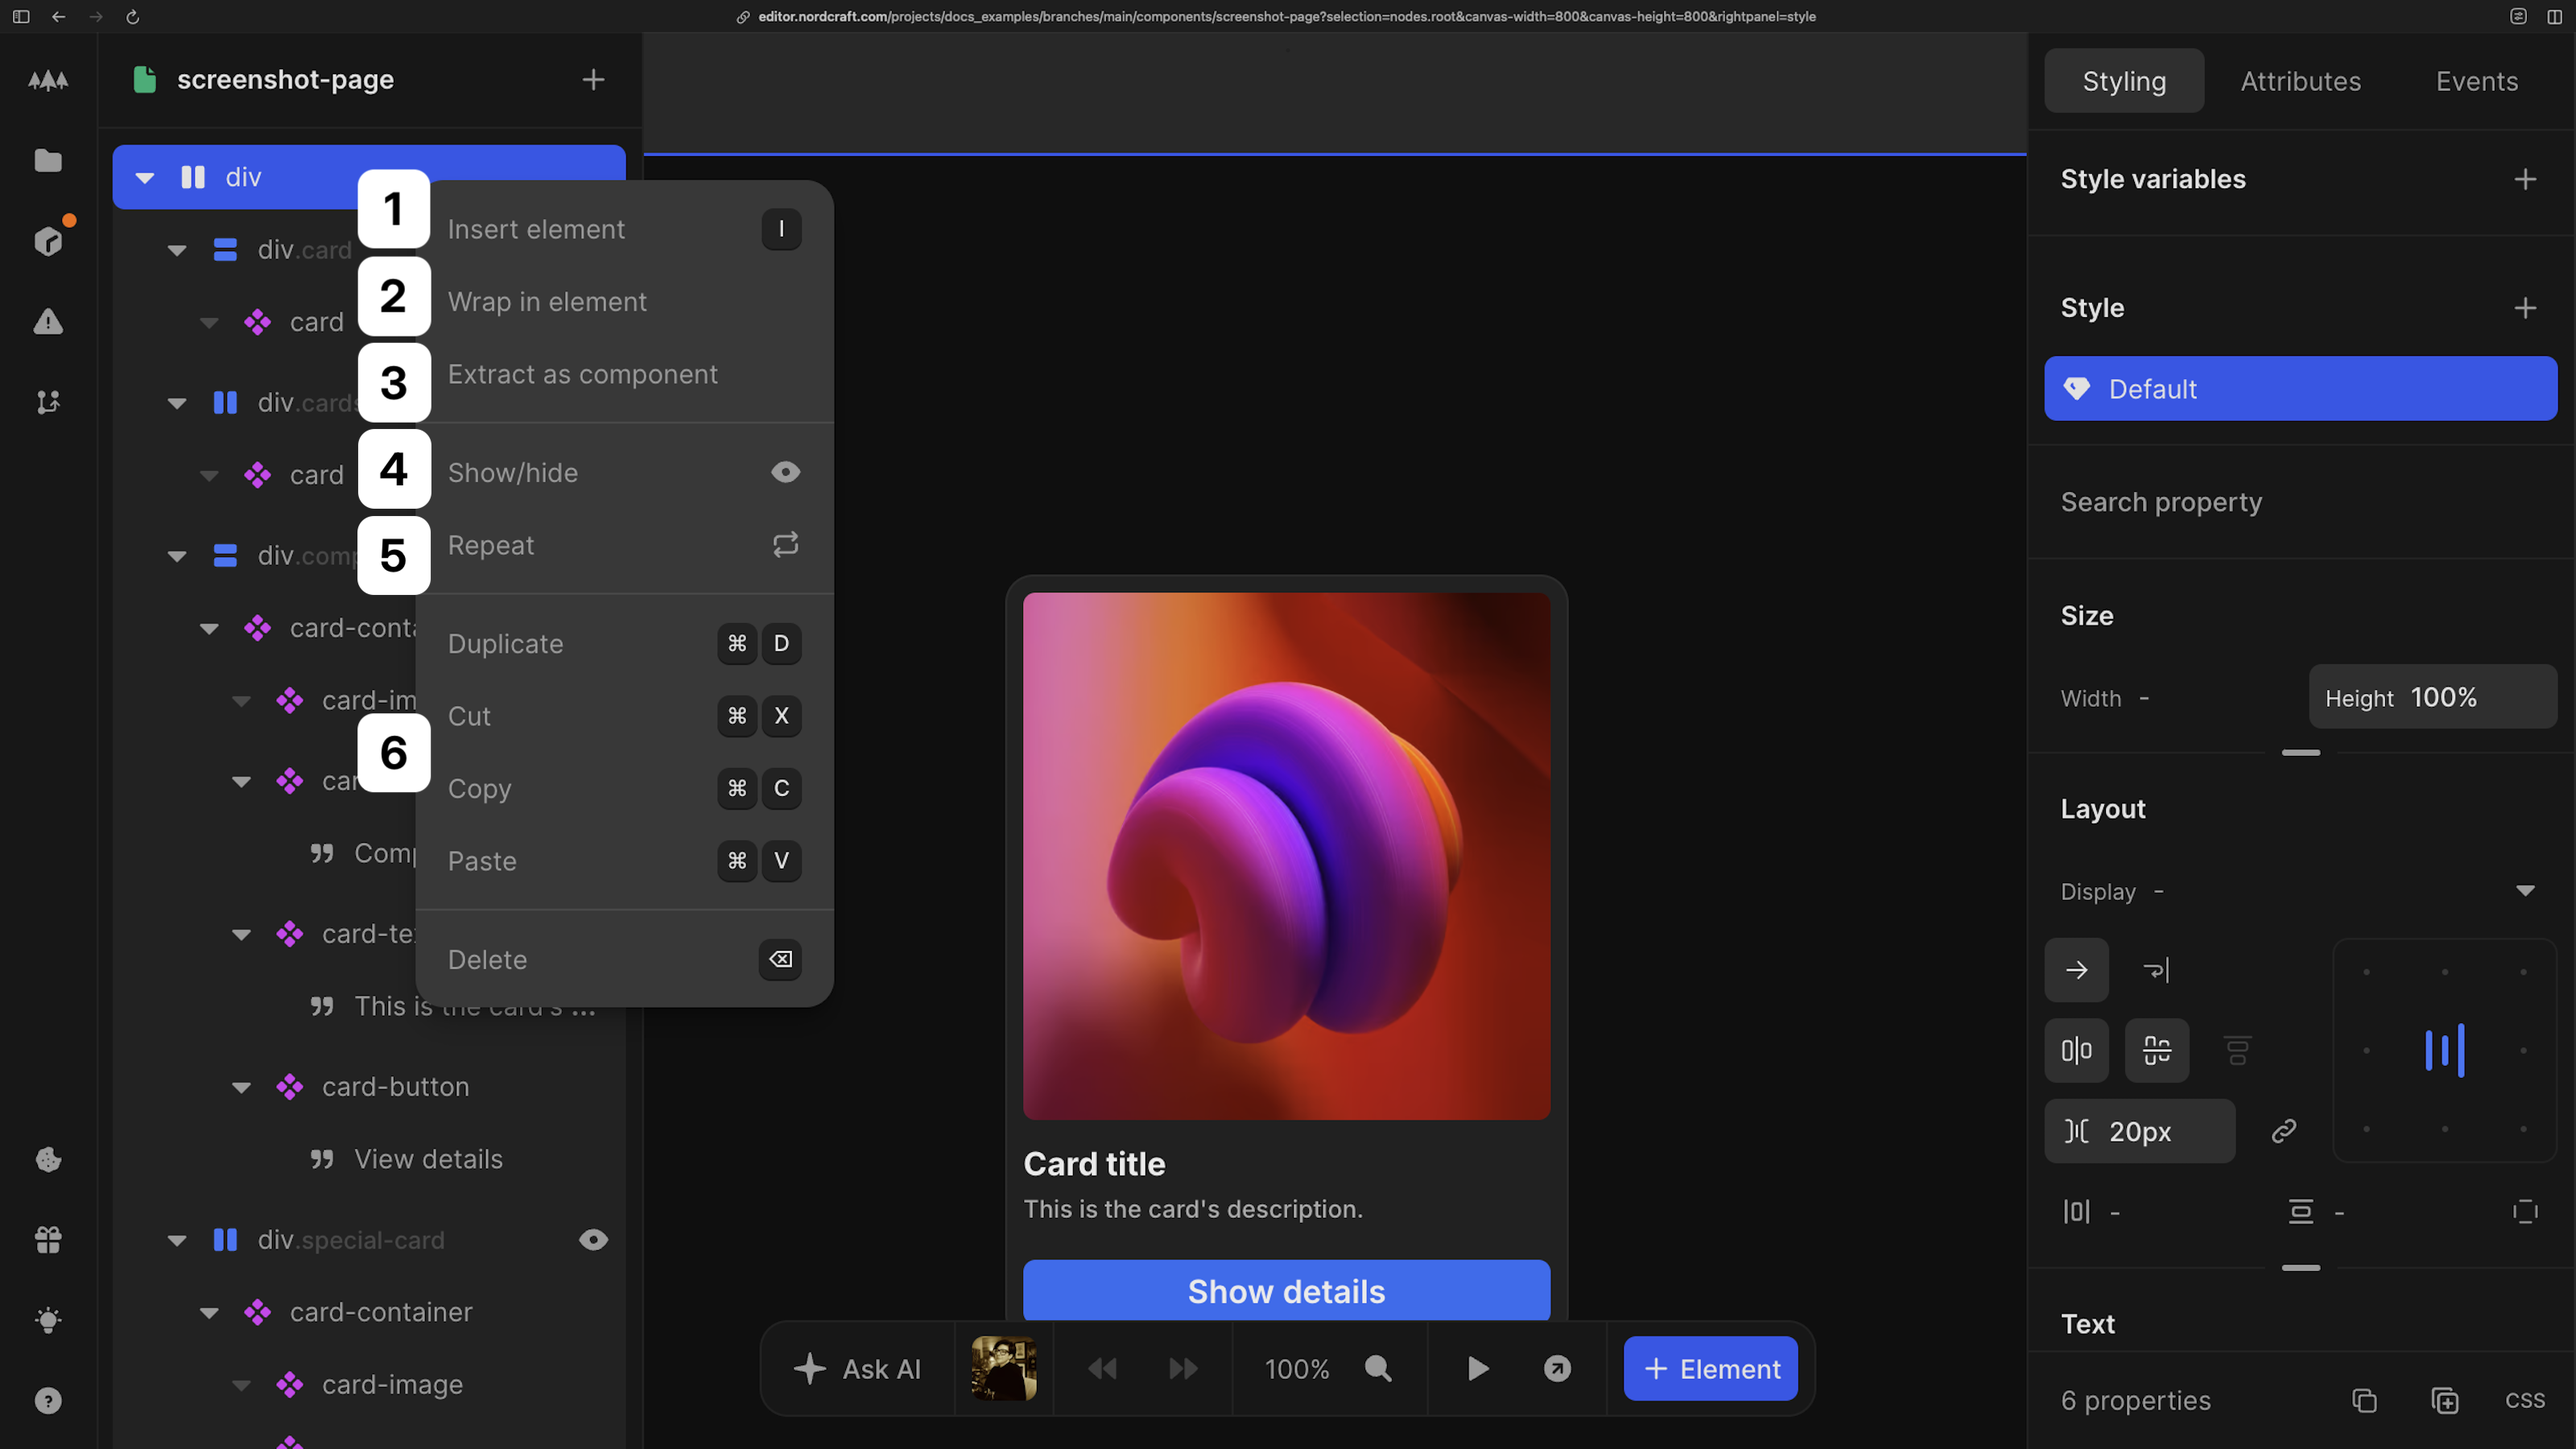
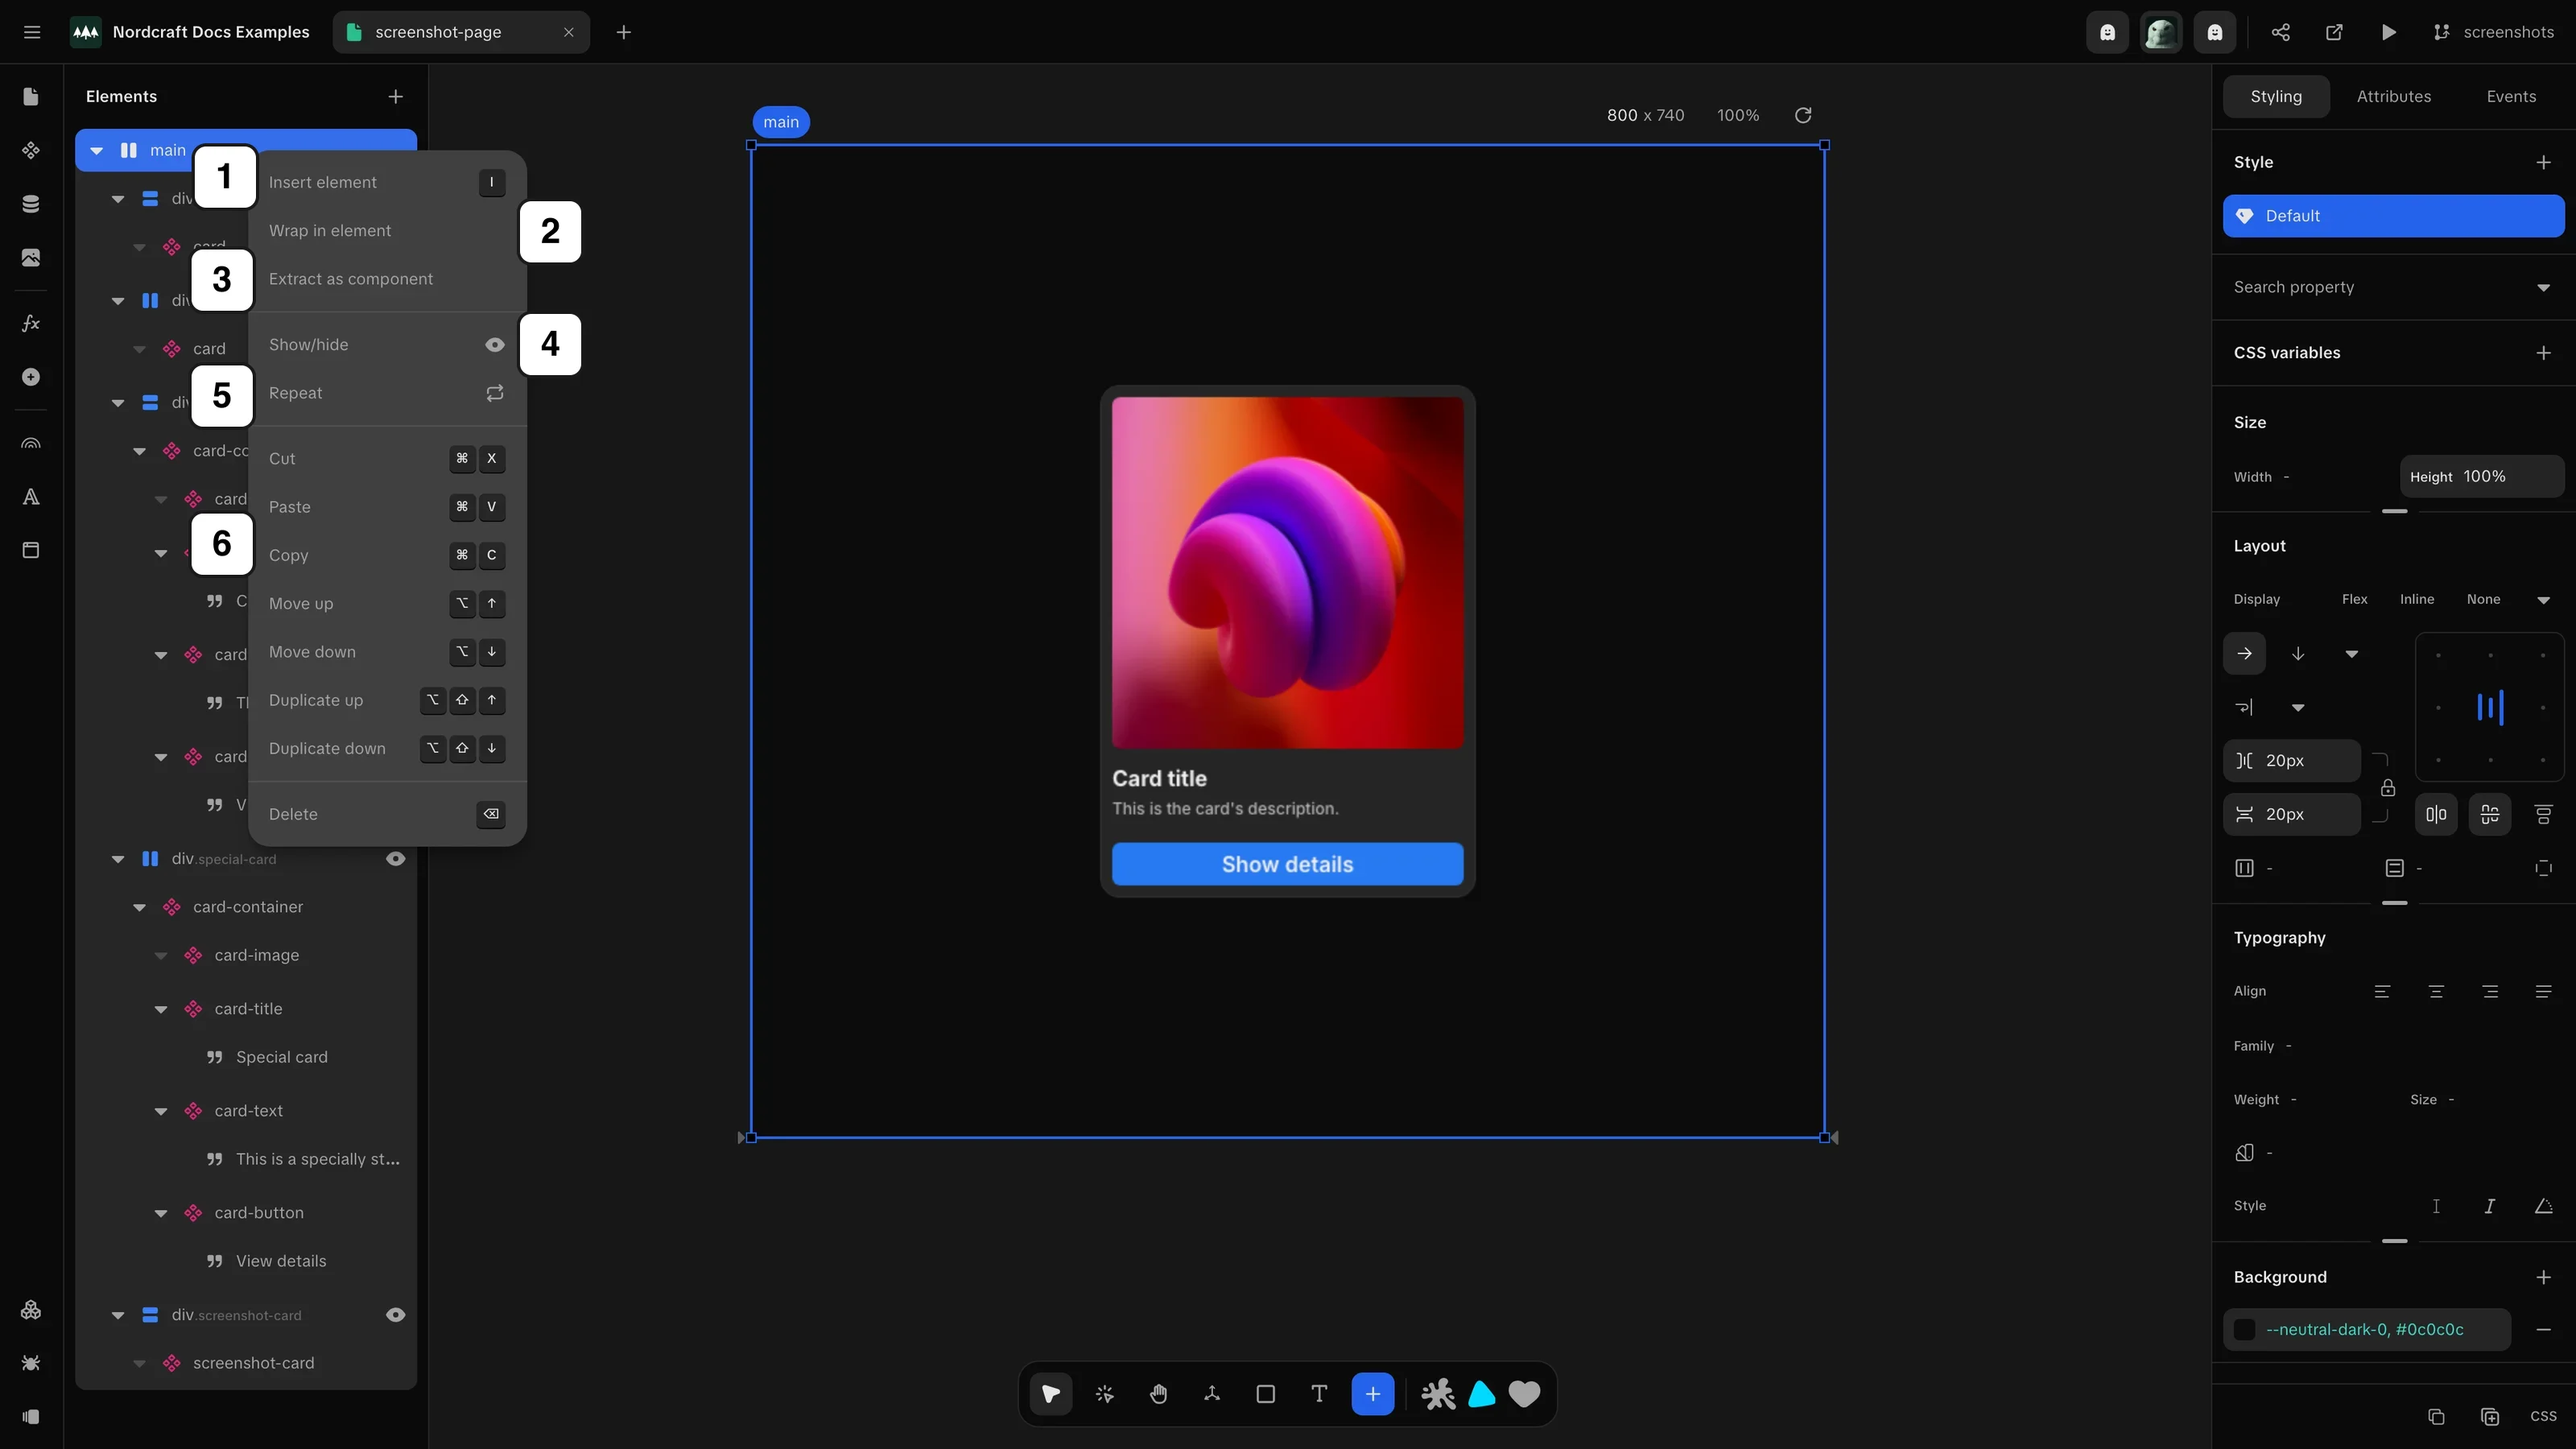
context menu

diff --git a/docs/the-editor/element-tree/element-context-menu.screenshot.ts b/docs/the-editor/element-tree/element-context-menu.screenshot.ts
@@ -1,0 +1,53 @@
+import { defineScreenshot } from '@/scripts/capture-screenshots'
+import type { Page } from 'playwright'
+
+// Placeholder script for element-context-menu.webp
+export default defineScreenshot({
+  path: '/projects/docs_examples/branches/screenshots/components/screenshot-page?mode=design&selection=nodes.root&rightpanel=style&canvas-tool=select&canvas-width=800',
+  setup: async (page: Page) => {
+    await page.waitForTimeout(500)
+    await page
+      .getByRole('button', { name: 'Expand or collapse node main' })
+      .click({
+        button: 'right',
+      })
+  },
+  annotations: [
+    {
+      type: 'badge',
+      x: 60,
+      y: 45,
+      text: '1'
+    },
+    {
+      type: 'badge',
+      x: 161,
+      y: 62,
+      text: '2'
+    },
+    {
+      type: 'badge',
+      x: 59,
+      y: 77,
+      text: '3'
+    },
+    {
+      type: 'badge',
+      x: 161,
+      y: 97,
+      text: '4'
+    },
+    {
+      type: 'badge',
+      x: 59,
+      y: 113,
+      text: '5'
+    },
+    {
+      type: 'badge',
+      x: 59,
+      y: 159,
+      text: '6'
+    }
+  ],
+})
